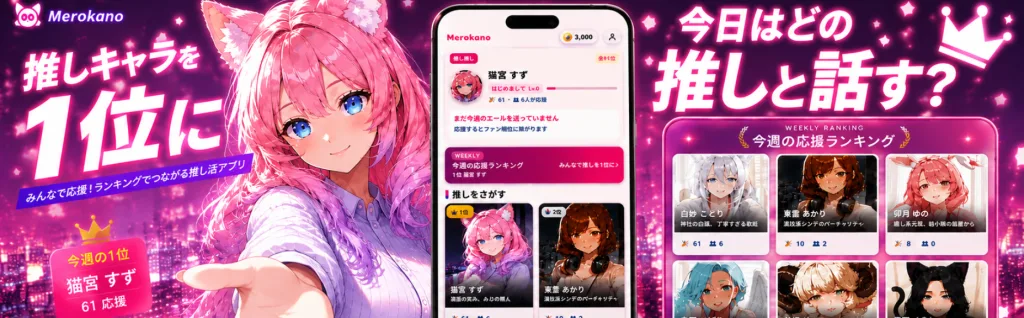
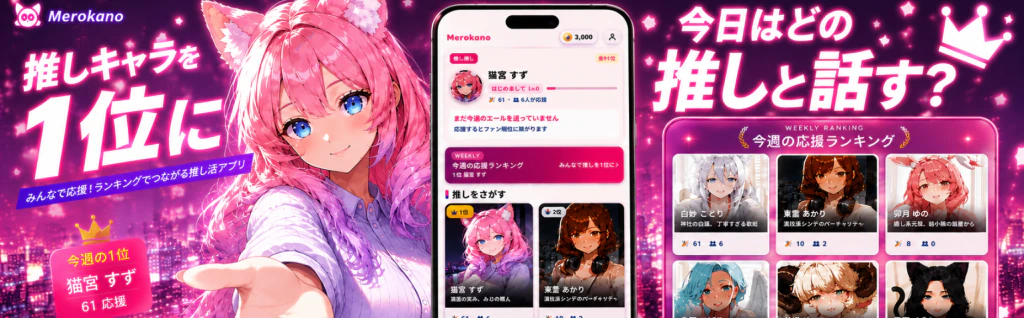
fix(ads): めろカノバナーの高解像度化 (srcset で 512/1024/1536 出し分け)
1024px 固定だったため DPR3 端末 (最近のスマホ・表示幅 512css px → 実 1536px 必要)
で引き伸ばしになりボケていた。原本 1856x576 との比較で解像度が主因と確認。

- 3解像度を q92 + -m 6 + -sharp_yuv で生成 (高彩度マゼンタのクロマ滲みも改善)
  512px 30-45KB / 1024px 85-130KB / 1536px 141-219KB
- srcset(w) + sizes="(max-width: 528px) calc(100vw - 16px), 512px" で端末が1つだけDL
  非Retina は 512px(約40KB) と現行より軽く、DPR3 でのみ 1536px を取得
- 既存の /ad/merokano-N.webp は 1024px 版として据え置き (q82→q92 で再エンコード)

diff --git a/src/components/AdBanner.tsx b/src/components/AdBanner.tsx
@@ -98,6 +98,8 @@ function FanzaWidget() {
 function MerokanoAdImage({ size }: { size: AdSize }) {
   const [adSrc] = useState(() => getRandomImage(AD_CONFIG.merokanoAd.images));
   const [imgError, setImgError] = useState(false);
+  // 同じ basename で -512 / (無印=1024) / -1536 の3解像度を public/ad/ に配置してある
+  const srcBase = adSrc.replace(/\.webp$/, '');
   const pagePath = typeof window !== 'undefined' ? window.location.pathname : '';
   const link = wrapClickUrl(getMerokanoAdLink(size), { adType: 'merokano', adSize: size, adPage: pagePath });
 
@@ -110,7 +112,12 @@ function MerokanoAdImage({ size }: { size: AdSize }) {
   return (
     <a href={link} target="_blank" rel="noopener noreferrer sponsored"
       className="inline-block w-full max-w-lg" onClick={handleClick}>
+      {/* 端末の DPR に応じて 512/1024/1536 を出し分ける。
+          表示幅は px-2 の内側で最大 max-w-lg(512px) なので、DPR3 のスマホでは 1536px が要る。
+          1024 固定だと引き伸ばしでボケる (2026-08-25 修正)。 */}
       <img src={adSrc} alt="めろカノ - 推し活アプリ [PR]" className="w-full h-auto rounded-lg"
+        srcSet={`${srcBase}-512.webp 512w, ${srcBase}.webp 1024w, ${srcBase}-1536.webp 1536w`}
+        sizes="(max-width: 528px) calc(100vw - 16px), 512px"
         width={1024} height={318} onError={() => setImgError(true)} />
     </a>
   );

diff --git a/src/lib/ad-config.ts b/src/lib/ad-config.ts
@@ -7,7 +7,8 @@ export const AD_CONFIG = {
   enabled: true,
 
   // めろカノ (推し活アプリ / merokano.jp) — 2026-08-25 掲載開始
-  // 素材: Drive「めろカノバナー」1-5.png (1856x576 PNG) を 1024x318 WebP に最適化して配置
+  // 素材: Drive「めろカノバナー」1-5.png (1856x576 PNG) を WebP(q92/sharp_yuv) 3解像度で配置。
+  // images は 1024px 版のパス。AdBanner が同じ basename から -512 / -1536 を srcset で出し分ける。
   merokanoAd: {
     link: 'https://merokano.jp/',
     images: [
